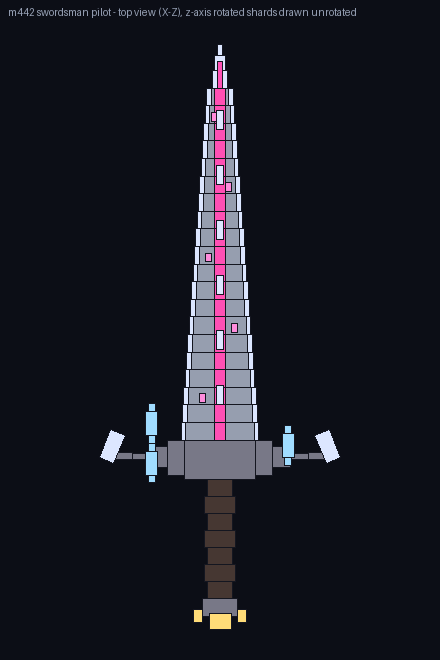
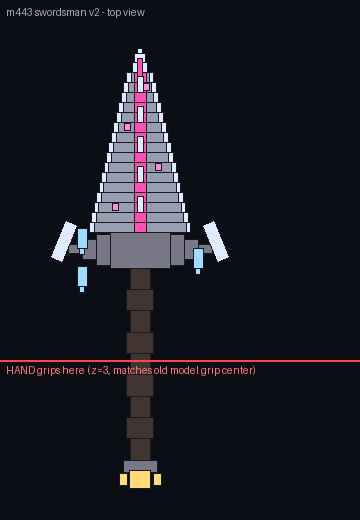
m443 剑客试点两处实机回修:①武器反的真因=柄段z错位(旧模型柄z-2..8手握点z3,m442柄放-4.2..1.2导致手落在护手刀身根部柄尾从另侧捅出;改用厚宽比+元素密度剖旧模型才判准,半宽法被45度旋转件带偏)→柄段对位z-2.0..7.6末端18.6 y厚±0.55 刀身半宽2.30;②强化没变色非管线故障(tintindex756/756全覆盖)而是m211阈值lvl<=100直接返纯白=+1~+99零反馈→新增低段爬色weaponTintLowRamp默开上限0.35指数0.6,start处连续性0.3500已验证,配置+2 v166→167

Changed region(s): [[0.0, 0.0615, 1.0, 0.9538], [0.0, 0.0, 0.825, 0.0308]]

diff --git a/src/main/java/com/yongye/YongyeConfig.java b/src/main/java/com/yongye/YongyeConfig.java
@@ -23,7 +23,7 @@ public class YongyeConfig {
     private static YongyeConfig INSTANCE;
 
     /** 当前配置 schema 版本号。每次我重新平衡默认值时 +1;加载旧版本文件会在日志里警告"配置可能过时"。 */
-    public static final int CURRENT_CONFIG_VERSION = 166; // m440 咏唱台词分层改版(仅旧默认迁移) · m439 召唤师重新上架(版本门迁移) · m438 大招咏唱台词+8 · m437 动作俯仰跟随+1 · m435 永夜天气联动+7 · m433 疾跑残影+5 · m432 血量书分档+1 · m431 搜集任务仓库算数+1 · m430 入包确认音+2 · m429 自动卷轴仓库直供+1 · m426 召唤师下架开关+1 · m421 镜头三通道硬顶+3 · m420 首次提示+1 · m419 音效并发管理器+5 · m418 HUD安全边距+2 · m417 低刺激整档+色盲记号+2 · m416 普通怪附伤三态门+1 · m415 战斗日志+2 · m413 干弟自定义皮肤名+2 · m411 FX调试面板+1 · m410 天赋加点脉冲+1 · m409 强化结果演出+1 · m408 主菜单动效+1 · m407 大招起手光晕+2 · m406 暴击/处决飘字+合并窗口+2 · m405 技能CD方块样式skillCdHudStyle+1(去m403的Plain布尔) · m403 技能CD无框半透明+停靠位+3 · m397 站姿默认关(版本门迁移) · m394 背挂微调+4 · m393 HUD微动效+1 · m391 页签过渡+1 · m388 永夜音景+2 · m387 讨伐演出+1 · m386 拾取通知卡+1 · m385 怪物微型血条+1 · m384 死亡转场+1 · m383 命中音分层+1 · m382 多杀弹字+1 · m381 特效质量档+1 · m380 永夜转场+3 · m377 永夜氛围粒子+2 · m376 掉落光柱+1 · m375 UI动效+1 · m374 受击方向指示+1 · m373 伤害飘字+2 · m367 肉盾脱战回盾+1 · m366 猎杀勋章+9 · m365 血条缩放+1 · m364 每日悬赏+9 · m363 渐进解锁+1 · m361 主线目标常显+1 · m359 强化直供+1 · m357 自动存/学书直供+2 · m356 材料仓库+1 · m352 事件天象+1 · m351 BOSS图鉴页+1 · m350 任务书节点地图+1 · m348 新手引导+3 · m346 技能CD常显HUD+3 · m341 P0~P3修复+BOSS阶梯解锁 · m338 蚀域/锻造+2 · m339 BOSS加强改版 · m337 转移+1 · m336 跟手+1 · m335 性能护栏+4 · m334 反卡+9 · m332 试炼+1 · m331 龙魂+1 · m330 永夜+3 · m328 主线任务+2 · m325~m327 任务权重/保血/拖刀+3 · m323 合书+1 · m322 获取提示+1 · m320 召唤协同+3 · m316 疾跑姿态+2 · m311 全怪紫气分档+1 · m312 看板默认左上(-2,14) · ...m308 看板挪位紧凑+4 · m309 精英战斗AI+14 · m310 僵尸红眼紫光+2
+    public static final int CURRENT_CONFIG_VERSION = 167; // m443 染色低段爬色+2 // m440 咏唱台词分层改版(仅旧默认迁移) · m439 召唤师重新上架(版本门迁移) · m438 大招咏唱台词+8 · m437 动作俯仰跟随+1 · m435 永夜天气联动+7 · m433 疾跑残影+5 · m432 血量书分档+1 · m431 搜集任务仓库算数+1 · m430 入包确认音+2 · m429 自动卷轴仓库直供+1 · m426 召唤师下架开关+1 · m421 镜头三通道硬顶+3 · m420 首次提示+1 · m419 音效并发管理器+5 · m418 HUD安全边距+2 · m417 低刺激整档+色盲记号+2 · m416 普通怪附伤三态门+1 · m415 战斗日志+2 · m413 干弟自定义皮肤名+2 · m411 FX调试面板+1 · m410 天赋加点脉冲+1 · m409 强化结果演出+1 · m408 主菜单动效+1 · m407 大招起手光晕+2 · m406 暴击/处决飘字+合并窗口+2 · m405 技能CD方块样式skillCdHudStyle+1(去m403的Plain布尔) · m403 技能CD无框半透明+停靠位+3 · m397 站姿默认关(版本门迁移) · m394 背挂微调+4 · m393 HUD微动效+1 · m391 页签过渡+1 · m388 永夜音景+2 · m387 讨伐演出+1 · m386 拾取通知卡+1 · m385 怪物微型血条+1 · m384 死亡转场+1 · m383 命中音分层+1 · m382 多杀弹字+1 · m381 特效质量档+1 · m380 永夜转场+3 · m377 永夜氛围粒子+2 · m376 掉落光柱+1 · m375 UI动效+1 · m374 受击方向指示+1 · m373 伤害飘字+2 · m367 肉盾脱战回盾+1 · m366 猎杀勋章+9 · m365 血条缩放+1 · m364 每日悬赏+9 · m363 渐进解锁+1 · m361 主线目标常显+1 · m359 强化直供+1 · m357 自动存/学书直供+2 · m356 材料仓库+1 · m352 事件天象+1 · m351 BOSS图鉴页+1 · m350 任务书节点地图+1 · m348 新手引导+3 · m346 技能CD常显HUD+3 · m341 P0~P3修复+BOSS阶梯解锁 · m338 蚀域/锻造+2 · m339 BOSS加强改版 · m337 转移+1 · m336 跟手+1 · m335 性能护栏+4 · m334 反卡+9 · m332 试炼+1 · m331 龙魂+1 · m330 永夜+3 · m328 主线任务+2 · m325~m327 任务权重/保血/拖刀+3 · m323 合书+1 · m322 获取提示+1 · m320 召唤协同+3 · m316 疾跑姿态+2 · m311 全怪紫气分档+1 · m312 看板默认左上(-2,14) · ...m308 看板挪位紧凑+4 · m309 精英战斗AI+14 · m310 僵尸红眼紫光+2
     public int configVersion = CURRENT_CONFIG_VERSION;
 
     // —— 战利品宝箱(m245)——
@@ -910,6 +910,11 @@ public class YongyeConfig {
     /** 职业武器+混沌之刃随强化等级变色:≤起始级保持纯黑白,越高越鲜艳(冰蓝→紫→品红→正红,全程无绿无黄);关=永远黑白。 */
     public boolean weaponTintEnabled = true;
     /** 染色起始强化等级:不超过它保持纯黑白(默认 100=「稀有」品质门槛)。 */
+    /** m443 低段爬色:起始级**以下**也给一点冰蓝(原 m211 是 ≤起始级直接纯白=+1~+99 零反馈,
+     *  作者实机报「强化了颜色没变化」)。关=回 m211 老口径(低段纯黑白)。 */
+    public boolean weaponTintLowRamp = true;
+    /** 低段爬色的饱和度上限(0~1,默 0.35=淡淡一层,不抢起始级之后的正戏)。 */
+    public double weaponTintLowMaxSat = 0.35;
     public int weaponTintStartLevel = 100;
     /** 染色封顶强化等级:达到即纯红,再高不再变(默认 2500=「至尊」品质门槛)。 */
     public int weaponTintEndLevel = 2500;

diff --git a/src/main/java/com/yongye/client/YongyeClient.java b/src/main/java/com/yongye/client/YongyeClient.java
@@ -992,10 +992,22 @@ public class YongyeClient implements ClientModInitializer {
         int lvl = stack.getOrDefault(ModComponents.ENHANCE_LEVEL, 0);
         int start = Math.max(1, cfg.weaponTintStartLevel);
         int end = Math.max(start + 1, cfg.weaponTintEndLevel);
-        if (lvl <= start) return 0xFFFFFFFF; // 0~起始级:不透明纯白=保持黑白
+        if (lvl <= 0) return 0xFFFFFFFF;                              // 未强化:不透明纯白
+        // m443 低段爬色(作者实机:「强化了颜色没变化」)——原 m211 是 lvl<=100 直接返回纯白,
+        // 意味着从 +1 强化到 +99 屏幕上**零反馈**,玩家自然以为染色坏了。现在低段也给一点冰蓝,
+        // 幅度由 weaponTintLowMaxSat 封顶(默 0.35=淡淡一层,不抢 +100 之后的正戏);
+        // 指数 0.6 让前几十级就看得出变化(线性的话 +10 几乎无感)。关 weaponTintLowRamp 回 m211 老口径。
+        float lowCap = (float) Math.max(0.0, Math.min(1.0, cfg.weaponTintLowMaxSat));
+        if (lvl < start) {
+            if (!cfg.weaponTintLowRamp) return 0xFFFFFFFF;
+            float sat = lowCap * (float) Math.pow(lvl / (double) start, 0.6);
+            return 0xFF000000 | hsvToRgb(200f / 360f, sat, 1.0f);
+        }
         double t = (Math.log(Math.min(lvl, end)) - Math.log(start)) / (Math.log(end) - Math.log(start));
         float hue = (float) (((200.0 + 160.0 * t) % 360.0) / 360.0); // 冰蓝→蓝紫→品红→正红,无绿无黄
-        float sat = (float) Math.min(1.0, t * 1.25);                  // 饱和度略快拉满 =「越来越鲜艳」
+        // 从低段终点接着往上爬,起始级处无跳变(开低段爬色时 sat 在 start 处正好等于 lowCap)
+        float base = cfg.weaponTintLowRamp ? lowCap : 0f;
+        float sat = (float) Math.min(1.0, base + (1.0 - base) * Math.min(1.0, t * 1.25));
         return 0xFF000000 | hsvToRgb(hue, sat, 1.0f);                 // 补满 alpha,防隐形
     }
 

diff --git a/DEVLOG.md b/DEVLOG.md
@@ -3532,3 +3532,18 @@ ServerBossBar#setName)。Java 数 164 不变。configVersion 不变(仍 19)。
   - **轮廓预览已出**:`docs/weapons/m442_swordsman_preview.png`(俯视 X-Z 投影,m184 预览惯例;z 轴旋转的晶片按未旋画,实机会有扭转)。
 - **零 Java 零配置(configVersion 仍 166)**;JSON 合法性/坐标界/材质区对齐已程序自检;validate-resource-pack 过(仅已知 pack.mcmeta 假阳性)。旧模型物品 id/lang/染色/动画贴图管线全部不动=纯资源替换,**不满意一条 README 命令即还原**。
 - 实机盯(skill display 章清单):手持第一/第三人称、GUI、地面、展示框、头部六视角逐一看持握角度与出屏;核心槽流光 1.2s 一轮、强化 +2500 看红色核心;与拔刀七式/背挂/拖刀同屏观感;帧率无感知差异。**观感定调后批量其余六把,不合意点名改哪里(长度/宽度/晶片数/核心宽窄都是脚本参数)。**
+
+## m443 剑客试点两处实机回修(作者截图:「这个武器是反的啊,然后强化了颜色没变化」,2026-08-02)
+
+### 病一:武器「反的」——不是反,是**柄段 z 位置错位**
+- **诊断**:m442 我只按「刀身沿 +Z 平躺」这一条对齐了旧模型,**没有对齐柄段在 z 上的具体位置**。重新按「厚度/宽度比」逐 z 切片剖旧模型才看清:旧模型 z −2..8 是一条 0.31 厚 × 0.50 宽、每层仅 3~8 元素的**匀质细杆=柄**(长达 10 单位的长柄),z 9..18 才是 0.75~0.88 厚、每层 20~86 元素的**刀身**。(第一次剖分用「离中轴半宽」判读被 45° 旋转件带偏——那些绕 origin z=7.91 旋转的扇形件被我错算成「z=0 处半宽 7.4」,险些得出「旧模型柄在高 z 端」的反向结论;换成厚宽比+元素密度才判准。)
+- 而 m442 把柄放在 z −4.2..1.2、护手 1.2..3.0 —— **手握点(旧柄中心 z≈3)正好落在我的护手/刀身根部**,于是柄尾从手的另一侧捅出来,看着就是「握着刀身、柄朝前」= 作者说的「反的」。截图里手边那块宽三角正是我 ±4.9 的护手翼,远端那截深色带纹就是被甩出去的缠柄——完全对得上。
+- **修**:柄段逐字对位旧模型 `z −2.0..7.6`(9 节缠柄),护手 7.6..9.4,刀身 9.4..17.4(16 步阶梯),锋尖收在 **18.6**(旧模型末端 18.33,防出屏);顺带把 y 厚收进 **±0.55**(旧模型 ±0.575,那是把极薄的扁刀)、护手翼展从 ±4.9 收到 ±3.6(让刀身当主角)、刀身半宽 1.55→**2.30** 起(上版太像针,现在有大太刀分量)。105 elements。
+- 预览已重出并**标出手握点红线**:`docs/weapons/m442_swordsman_preview.png` —— 柄段现在横跨该线,这是这次唯一有意义的验收判据。
+
+### 病二:「强化了颜色没变化」——染色管线是好的,是 m211 的**阈值设计**没给低段反馈
+- **先排除接线问题**:新模型 756/756 面全带 tintindex(旧模型 1504/1504,覆盖率一致);ColorProviderRegistry 对 classWeapons() 全注册;provider 忽略 tintIndex 直接返色。**管线没坏**。
+- **真因**:m211 写的是 `if (lvl <= start) return 0xFFFFFFFF;`,start 默认 **100**——也就是从 +1 强化到 +99,屏幕上**零反馈**,玩家当然认为染色坏了。这是设计缺口不是 bug,但作者的抱怨完全成立。
+- **修(m443 低段爬色)**:0<lvl<start 时给一层冰蓝,饱和度 `weaponTintLowMaxSat × (lvl/start)^0.6`(默上限 0.35=淡淡一层,不抢 +100 之后的正戏;指数 0.6 让前几十级就看得出变化,线性的话 +10 几乎无感);start 之后的主曲线改从低段终点**接着往上爬** `sat = 0.35 + 0.65·min(1,1.25t)`,**起始级处两分支同值 0.3500 已程序验证连续**,不会出现「+99 有色 +100 反而变白」的跳变。关 `weaponTintLowRamp` 逐帧回 m211 老口径。
+- 配置+2 **configVersion 166→167**;javac 筛查过,JSON 合法性/坐标界自检过,validate-resource-pack 过(仅已知 pack.mcmeta 假阳性)。
+- 实机盯:①持刀看**柄在手里、刃朝前**,六视角(第一/第三人称/GUI/地面/展示框/头部)各扫一眼;②拿把 +10~+50 的武器就该看出淡冰蓝(这次是重点),+100 起按老曲线爬到 +2500 正红;`weaponTintLowRamp false` 回旧观感。
